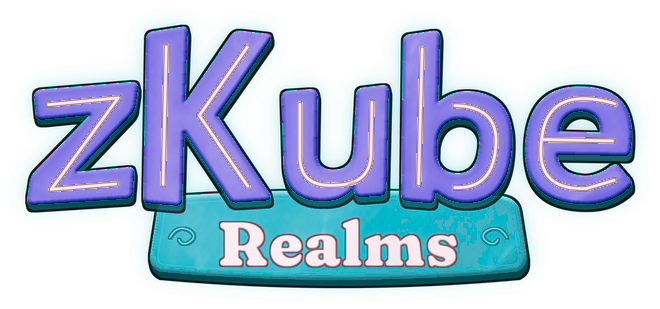
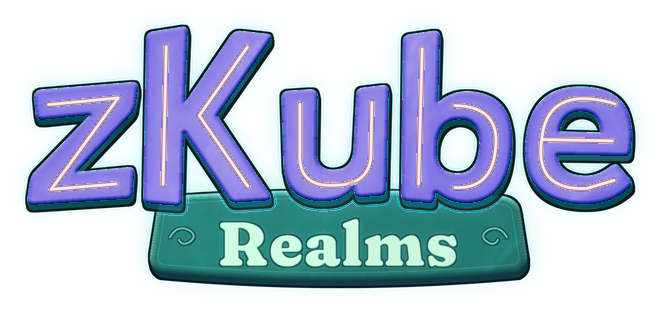
feat(brand): only the wordmark's letters change colour between realms; the plaques keep their own

Changed region(s): [[0.2121, 0.6117, 0.8182, 0.932]]

diff --git a/unity/tools/tests/test_skin_import.py b/unity/tools/tests/test_skin_import.py
@@ -106,6 +106,26 @@ class KitArt(unittest.TestCase):
                 r, g, b = face.getpixel((face.width // 2, face.height // 2))
                 self.assertTrue(g > r + 20 and b > r + 20 and min(g, b) > 60, f"{skin} {slot}: its face {(r, g, b)} is a filled teal")
 
+    def test_only_the_wordmark_letters_change_colour_between_realms(self):
+        """Each product's plaque keeps one colour in every realm and on the loading screen: from the letters'
+        foot down, and around the letters' box, every colourway and the brand lockup carry the same pixels."""
+        left, top, right, foot = 23, 22, 638, 216
+        for product in ("realms", "arena"):
+            brand = Image.open(ROOT / f"assets/brand/{product}/wordmark.png").convert("RGBA")
+            realms = [Image.open(path).convert("RGBA") for path in sorted((ROOT / "assets/skins/lumen").glob(f"realm-*/wordmark-{product}.png"))]
+            self.assertEqual(10, len(realms))
+            letters = set()
+            for realm in realms:
+                self.assertEqual(brand.size, realm.size)
+                # A difference image keeps the alpha band's difference, and getbbox reads only alpha when it has one.
+                changed = ImageChops.difference(brand, realm).point(lambda value: 255 if value else 0).convert("RGB").getbbox() or \
+                    ImageChops.difference(brand.getchannel("A"), realm.getchannel("A")).getbbox()
+                if changed:
+                    self.assertTrue(left <= changed[0] and top <= changed[1] and changed[2] <= right and changed[3] <= foot,
+                                    f"{product}: a colourway changes pixels {changed} outside the letters")
+                letters.add(realm.crop((left, top, right, foot)).tobytes())
+            self.assertEqual(10, len(letters), f"{product}: every realm colours the letters its own way")
+
     def test_no_sliced_kit_piece_carries_a_stray_point_light(self):
         catalog = json.loads((ROOT / 'assets/theme-catalog.generated.json').read_text())
         sliced = [entry for skin in catalog['skins'] for entry in skin['ui'] if any(entry['border'])]
